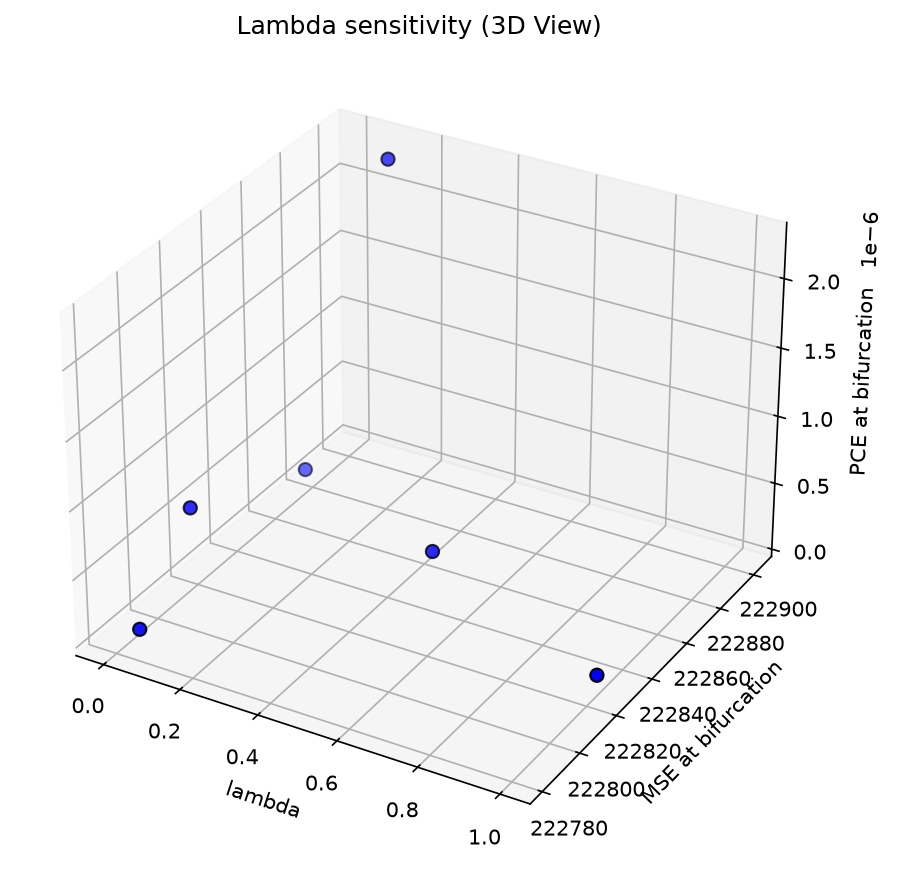
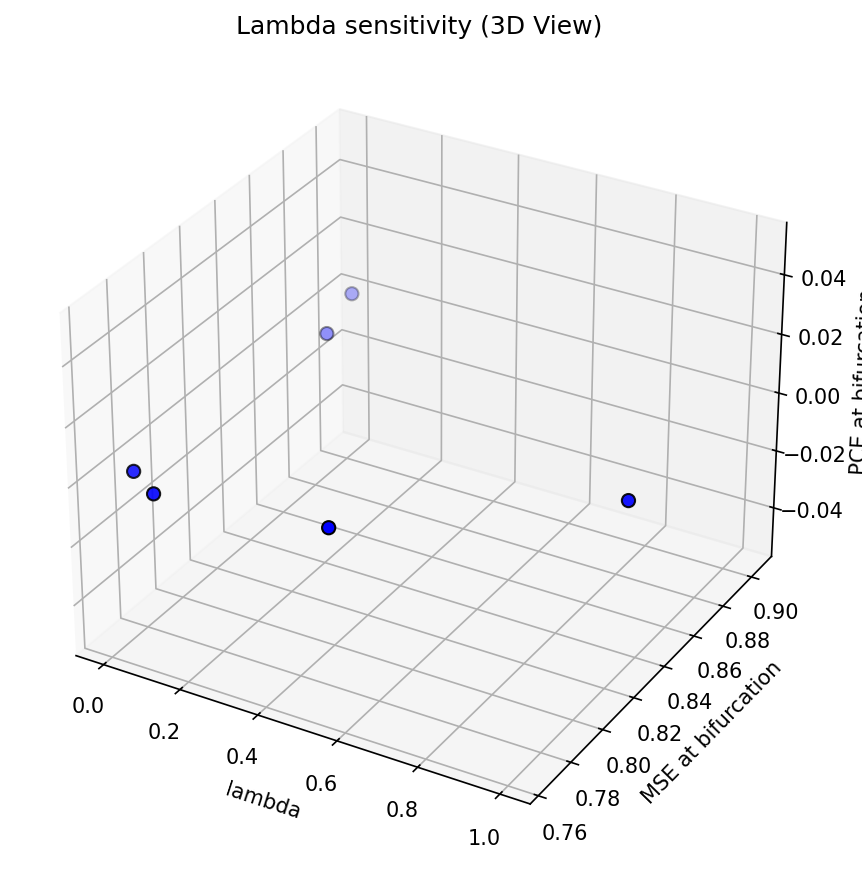
data: add preprocessing + scaling; fix LIME/SHAP NaN handling; KDE fallback; clip preds

diff --git a/main.py b/main.py
@@ -93,6 +93,10 @@ def dummy_model_trainer(lam: float, config: dict) -> torch.nn.Module:
             return torch.zeros((batch_size, horizon, channels), device=x.device)
     return EmulatedPatchModel()
 
+PRED_CLIP_MIN = None
+PRED_CLIP_MAX = None
+
+
 def predict_fn_flat(x_in):
     # Защита от 1D-массивов (LIME иногда передает их)
     if x_in.ndim == 1:
@@ -124,7 +128,24 @@ def predict_fn_flat(x_in):
         out = best_model(t_x)
         if isinstance(out, (tuple, list)):
             out = out[0]
-    return out.cpu().numpy()
+    preds = out.cpu().numpy()
+
+    # Replace NaN/Inf and clip to configured sensible bounds to avoid explainer failures
+    try:
+        preds = np.nan_to_num(preds, nan=0.0, posinf=1e12, neginf=-1e12)
+    except Exception:
+        preds = np.asarray(preds)
+        preds = np.where(np.isfinite(preds), preds, 0.0)
+
+    # If global clip bounds are set, apply them (useful to keep magnitudes comparable to target)
+    global PRED_CLIP_MIN, PRED_CLIP_MAX
+    try:
+        if PRED_CLIP_MIN is not None and PRED_CLIP_MAX is not None:
+            preds = np.clip(preds, PRED_CLIP_MIN, PRED_CLIP_MAX)
+    except Exception:
+        pass
+
+    return preds
 
 
 # =====================================================================
@@ -146,7 +167,10 @@ if __name__ == "__main__":
 
     # 1. Загрузка данных - предпочитаем реальный CSV `SPb.COVID-19.united.csv`.
     logger.info("Шаг 1: Загрузка датасета SPb.COVID-19.united.csv (если присутствует)...")
-    csv_paths = [project_root / "SPb.COVID-19.united.csv", project_root / "data" / "SPb.COVID-19.united.csv"]
+    csv_paths = [
+        project_root / "SPb.COVID-19.united.csv",
+        project_root / "data" / "SPb.COVID-19.united.csv",
+    ]
     df_data = None
     for p in csv_paths:
         if p.exists():
@@ -177,10 +201,125 @@ if __name__ == "__main__":
     else:
         logger.warning(f"Target column '{target_col}' not found in dataset; available columns: {list(df_data.columns)}")
 
+    # Ensure required columns exist for downstream functions
+    if 'unique_id' not in df_data.columns:
+        logger.warning("Column 'unique_id' missing in CSV — adding default unique_id from config.")
+        df_data['unique_id'] = config.get('unique_id', 'SPb')
+    if 'ds' not in df_data.columns:
+        logger.warning("Column 'ds' (date) missing in CSV — creating a simple date index.")
+        df_data['ds'] = pd.date_range(start="2020-01-01", periods=len(df_data), freq='D')
+
+    # Ensure target column has no NaNs (fill forward/backward); drop remaining NaNs
+    if target_col in df_data.columns:
+        df_data[target_col] = df_data[target_col].ffill().bfill()
+        if df_data[target_col].isna().any():
+            logger.warning("Target column contains NaNs after fill; dropping rows with NaN in target.")
+            df_data = df_data[~df_data[target_col].isna()].reset_index(drop=True)
+
+    # --- Data preprocessing: ensure daily grid, fill missing values, and scale features/target ---
+    # Parse possible date columns
+    if 'ds' not in df_data.columns:
+        if 'TIME.sk' in df_data.columns:
+            df_data['ds'] = pd.to_datetime(df_data['TIME.sk']).dt.floor('D')
+        elif 'DATE.spb' in df_data.columns:
+            df_data['ds'] = pd.to_datetime(df_data['DATE.spb']).dt.floor('D')
+        else:
+            # already warned earlier; create monotonically increasing dates
+            df_data['ds'] = pd.date_range(start='2020-01-01', periods=len(df_data), freq='D')
+
+    df_data = df_data.set_index(pd.DatetimeIndex(df_data['ds'])).sort_index()
+    # Reindex to full daily grid
+    full_idx = pd.date_range(df_data.index.min(), df_data.index.max(), freq='D')
+    df_data = df_data.reindex(full_idx)
+
+    # Define heuristics for cumulative vs flow columns
+    cumul_keywords = ['CONFIRM', 'DEATH', 'VACC', 'V1.CS']
+    cols = list(df_data.columns)
+    for c in cols:
+        if c == 'ds' or c == 'unique_id':
+            continue
+        # Try coerce to numeric where reasonable; non-numeric columns will become NaN and then filled
+        try:
+            df_data[c] = pd.to_numeric(df_data[c], errors='coerce')
+        except Exception:
+            pass
+        try:
+            if any(k in c.upper() for k in cumul_keywords):
+                # cumulative: forward/backward fill
+                df_data[c] = df_data[c].ffill().bfill()
+            else:
+                # flow-like: interpolate in time then fill remaining with 0
+                df_data[c] = df_data[c].interpolate(method='time', limit_direction='both').fillna(0)
+        except Exception:
+            df_data[c] = df_data[c].ffill().bfill().fillna(0)
+
+    # restore ds column from index; ensure no duplicate 'ds' column remains
+    if 'ds' in df_data.columns:
+        df_data = df_data.drop(columns=['ds'], errors=True)
+    df_data = df_data.reset_index().rename(columns={'index': 'ds'})
+
+    # Ensure unique_id
+    if 'unique_id' not in df_data.columns:
+        df_data['unique_id'] = config.get('unique_id', 'SPb_COVID')
+
+    # Scaling: fit scalers on first 70% of data (time-based split)
+    from sklearn.preprocessing import StandardScaler
+    # Preserve original copy for numeric detection
+    df_original = df_data.copy()
+    # Choose numeric feature columns only (exclude datetime/ids)
+    numeric_cols = df_original.select_dtypes(include=[np.number]).columns.tolist()
+    if target_col not in numeric_cols:
+        numeric_cols = [target_col] + [c for c in numeric_cols if c != target_col]
+    feature_cols = numeric_cols
+
+    # Build X_raw and y_raw (preserve original copies)
+    df_original = df_data.copy()
+    X_raw = df_original[[c for c in feature_cols if c != target_col]].values
+    y_raw = df_original[target_col].values.reshape(-1, 1)
+
+    n_rows = len(df_original)
+    train_end = max(2, int(n_rows * 0.7))
+
+    X_scaler = StandardScaler()
+    y_scaler = StandardScaler()
+    try:
+        X_scaler.fit(X_raw[:train_end])
+        y_scaler.fit(y_raw[:train_end])
+    except Exception:
+        # fallback: fit on all data
+        X_scaler.fit(X_raw)
+        y_scaler.fit(y_raw)
+
+    X_scaled = X_scaler.transform(X_raw)
+    y_scaled = y_scaler.transform(y_raw).ravel()
+
+    # Set prediction clipping bounds using original-scale target range
+    try:
+        tmin = float(np.nanmin(df_original[target_col].values))
+        tmax = float(np.nanmax(df_original[target_col].values))
+        span = max(1.0, tmax - tmin)
+        PRED_CLIP_MIN = tmin - 0.5 * span
+        PRED_CLIP_MAX = tmax + 0.5 * span
+        logger.info(f"Prediction clipping bounds set: [{PRED_CLIP_MIN:.2f}, {PRED_CLIP_MAX:.2f}]")
+    except Exception:
+        PRED_CLIP_MIN = None
+        PRED_CLIP_MAX = None
+
+    # Prepare a scaled dataframe copy for downstream model analysis
+    df_scaled = df_original.copy()
+    for i, c in enumerate([c for c in feature_cols if c != target_col]):
+        df_scaled[c] = X_scaled[:, i]
+    df_scaled[target_col] = y_scaled
+
     # 2. Анализируем чувствительность по Парето-компромиссу
     logger.info("Шаг 2: Запуск анализа чувствительности по сетке регуляризации lambda...")
     lambda_grid = config.get("physics", {}).get("lambda_grid", [0.0, 0.01, 0.05, 0.1, 0.5, 1.0])
-    df_sens = run_lambda_sensitivity_analysis(dummy_model_trainer, lambda_grid, df_data, config, horizon)
+    # Pass scaled dataframe to sensitivity analysis so models train on normalized data
+    try:
+        df_sens = run_lambda_sensitivity_analysis(dummy_model_trainer, lambda_grid, df_scaled, config, horizon)
+    except Exception as e:
+        logger.exception(f"Lambda sensitivity analysis failed on scaled data: {e}; retrying on raw data.")
+        df_sens = run_lambda_sensitivity_analysis(dummy_model_trainer, lambda_grid, df_data, config, horizon)
 
     # 3. Интерпретация локальных патчей
     logger.info("Шаг 3: Поиск точек излома тренда и запуск SHAP/LIME интерпретации...")
@@ -188,7 +327,8 @@ if __name__ == "__main__":
     logger.info(f"Критические временные индексы перелома тренда: {bif_indices}")
     
     feature_cols = ["OCCUPIED_BEDS_CALCULATED", "PCR_TESTS", "CONFIRMED.sk", "ACTIVE.sk"]
-    X_raw = df_data[feature_cols].values
+    # Use scaled features for model inputs / explainers (model was trained on scaled data)
+    X_raw = df_scaled[feature_cols].values
     feature_names = [f"{col}_lag_{lag}" for col in feature_cols for lag in range(seq_len)]
     
     # Объявление переменной гарантировано происходит здесь:

diff --git a/src/explainability.py b/src/explainability.py
@@ -94,14 +94,38 @@ def explain_shap_prpatch(
                 preds = model_or_predict_fn(x_tensor)
         
         preds = _ensure_numpy(preds)
+
+        # Convert to 2D (batch, -1) or 1D as expected and ensure numeric stability
         if preds.ndim == 3:
-            return preds.reshape(preds.shape[0], -1)[:, 0]
+            outp = preds.reshape(preds.shape[0], -1)
         elif preds.ndim == 2:
-            return preds[:, 0]
-        return preds.ravel()
+            outp = preds
+        else:
+            outp = preds.ravel()
+
+        try:
+            outp = np.nan_to_num(outp, nan=0.0, posinf=1e12, neginf=-1e12)
+        except Exception:
+            outp = np.where(np.isfinite(outp), outp, 0.0)
+
+        # If outp is 2D and single-column, return 1D array for SHAP/LIME expectations
+        if isinstance(outp, np.ndarray) and outp.ndim == 2 and outp.shape[1] == 1:
+            return outp[:, 0]
+        return outp
 
     Xb_flat = Xb_sub.reshape((Xb_sub.shape[0], -1))
     Xi_flat = Xi.reshape((Xi.shape[0], -1))
+
+    # Quick sanity-check: ensure the model/predict_fn returns finite values on background samples
+    try:
+        chk = predict_fn_internal(Xb_flat[: min(50, Xb_flat.shape[0])])
+        chk_arr = np.asarray(chk, dtype=np.float64)
+        if not np.isfinite(chk_arr).all():
+            logger.warning(f"SHAP predict_fn produced non-finite outputs on background samples for {target_name}; skipping SHAP.")
+            return np.array([]), None
+    except Exception as e:
+        logger.warning(f"SHAP predict_fn check failed: {e}; skipping SHAP for {target_name}.")
+        return np.array([]), None
 
     explainer = shap.KernelExplainer(predict_fn_internal, Xb_flat, link="identity")
     shap_vals = explainer.shap_values(Xi_flat, nsamples=nsamples)
@@ -207,15 +231,30 @@ def explain_lime_instance(
     Xtrain_for_expl = Xtrain_flat.astype(np.float64).copy()
     inst_for_expl = inst_flat.astype(np.float64).copy()
 
-    # Add tiny jitter to constant columns to avoid singular regressions inside LIME
+    # Ensure no NaN/Inf remain in training/background data passed to LIME
+    try:
+        Xtrain_for_expl = np.nan_to_num(Xtrain_for_expl, nan=0.0, posinf=0.0, neginf=0.0)
+        inst_for_expl = np.nan_to_num(inst_for_expl, nan=0.0, posinf=0.0, neginf=0.0)
+    except Exception:
+        Xtrain_for_expl = np.where(np.isfinite(Xtrain_for_expl), Xtrain_for_expl, 0.0)
+        inst_for_expl = np.where(np.isfinite(inst_for_expl), inst_for_expl, 0.0)
+
+    # Add tiny jitter to near-constant columns to avoid singular regressions inside LIME
     col_std = Xtrain_for_expl.std(axis=0)
-    const_cols = np.where(col_std == 0)[0]
+    const_cols = np.where(np.isclose(col_std, 0.0))[0]
     if const_cols.size > 0:
         jitter = 1e-8 * (np.random.RandomState(0).randn(*Xtrain_for_expl[:, const_cols].shape))
         Xtrain_for_expl[:, const_cols] += jitter
         inst_for_expl[0, const_cols] += jitter[0] if jitter.shape[0] > 0 else 0.0
 
-    explainer = lime_tabular.LimeTabularExplainer(Xtrain_for_expl, feature_names=feature_names, mode='regression')
+    # Disable automatic discretization which can fail with zero-range features (truncnorm scale<=0)
+    explainer = lime_tabular.LimeTabularExplainer(
+        Xtrain_for_expl,
+        feature_names=feature_names,
+        mode='regression',
+        discretize_continuous=False,
+        random_state=0,
+    )
 
     def predict_flat(x_flat: np.ndarray) -> np.ndarray:
         if x_flat.ndim == 1:
@@ -234,6 +273,11 @@ def explain_lime_instance(
         if preds.ndim == 1:
             preds = preds.reshape(preds.shape[0], 1)
         preds = preds.astype(np.float64)
+
+        # Replace any NaN/Inf in predictions with finite numbers to avoid LIME failures
+        if not np.isfinite(preds).all():
+            logger.warning(f"LIME predict_flat returned non-finite values; replacing with zeros. shape={preds.shape}")
+            preds = np.nan_to_num(preds, nan=0.0, posinf=0.0, neginf=0.0)
 
         # Debug: log output shape and sample values
         try:

diff --git a/src/evaluation.py b/src/evaluation.py
@@ -322,15 +322,32 @@ def plot_figure_4_potential_landscape(df: pd.DataFrame, target_col: str, breakpo
         x_grid = np.linspace(-3, 3, 500)
         
         try:
-            kde = gaussian_kde(sub_data_norm)
-            p_x = kde(x_grid)
+            # Try KDE; if covariance is singular, retry with tiny jitter, otherwise fallback to histogram
+            try:
+                kde = gaussian_kde(sub_data_norm)
+                p_x = kde(x_grid)
+            except Exception:
+                # Add tiny regularization noise and retry
+                sub_try = sub_data_norm + np.random.normal(0, 1e-6, size=sub_data_norm.shape)
+                kde = gaussian_kde(sub_try)
+                p_x = kde(x_grid)
+
             v_x = -np.log(p_x + 1e-5)
             v_x -= np.min(v_x)
-            
             ax.plot(x_grid, v_x, label=label, color=color, linewidth=2.5)
             ax.fill_between(x_grid, v_x, alpha=0.1, color=color)
         except Exception as e:
-            logger.error(f"KDE failed for period {label}: {e}")
+            logger.error(f"KDE failed for period {label}: {e}; drawing histogram fallback.")
+            # Fallback: draw normalized histogram as approximate potential
+            try:
+                counts, bins = np.histogram(sub_data_norm, bins=30, density=True)
+                bins_center = 0.5 * (bins[:-1] + bins[1:])
+                p_x = counts + 1e-8
+                v_x = -np.log(p_x)
+                v_x = (v_x - np.min(v_x)) / (np.max(v_x) - np.min(v_x) + 1e-9)
+                ax.plot(bins_center, v_x, label=label + " (hist)", color=color, linewidth=2.0, linestyle='--')
+            except Exception as e2:
+                logger.error(f"Histogram fallback also failed for period {label}: {e2}")
 
     ax.set_title("Figure 4: Potential Landscape Evolution and Basin of Attraction Shrinking", fontsize=13, fontweight='bold', pad=15)
     ax.set_xlabel("State Space Coordinate (Normalized Fluctuations $x$)", fontsize=11)
@@ -789,6 +806,12 @@ def plot_shap_summary(model, X_train, X_test, feature_names, save_path="artifact
             preds = preds.detach().cpu().numpy()
         preds = np.asarray(preds)
 
+        # Ensure predictions are finite and replace NaN/Inf with sensible defaults
+        try:
+            preds = np.nan_to_num(preds, nan=0.0, posinf=1e12, neginf=-1e12)
+        except Exception:
+            preds = np.where(np.isfinite(preds), preds, 0.0)
+
         # Debug info: shapes and some sample values
         logger.debug(f"SHAP wrapper: input x_3d shape={x_3d.shape}, model output type={type(preds)}, shape={getattr(preds, 'shape', None)}")
         try:
@@ -830,7 +853,20 @@ def plot_shap_summary(model, X_train, X_test, feature_names, save_path="artifact
         return preds
 
     explainer = shap.KernelExplainer(wrapper, X_train_flat)
-    shap_values = explainer.shap_values(X_test_flat[:20])
+    # Call shap_values with robust error handling; try cleaned inputs and reduced sample size on failure
+    try:
+        shap_values = explainer.shap_values(X_test_flat[:20])
+    except Exception as e:
+        logger.warning(f"KernelExplainer.shap_values failed: {e}; attempting cleaned fallback.")
+        try:
+            X_train_clean = np.nan_to_num(X_train_flat, nan=0.0, posinf=1e12, neginf=-1e12)
+            X_test_clean = np.nan_to_num(X_test_flat, nan=0.0, posinf=1e12, neginf=-1e12)
+            explainer2 = shap.KernelExplainer(wrapper, X_train_clean)
+            # try with smaller slice
+            shap_values = explainer2.shap_values(X_test_clean[:5])
+        except Exception as e2:
+            logger.exception(f"Fallback SHAP computation also failed: {e2}; aborting SHAP plot.")
+            return
 
     if isinstance(shap_values, list):
         if target_idx is not None and len(shap_values) > target_idx:
